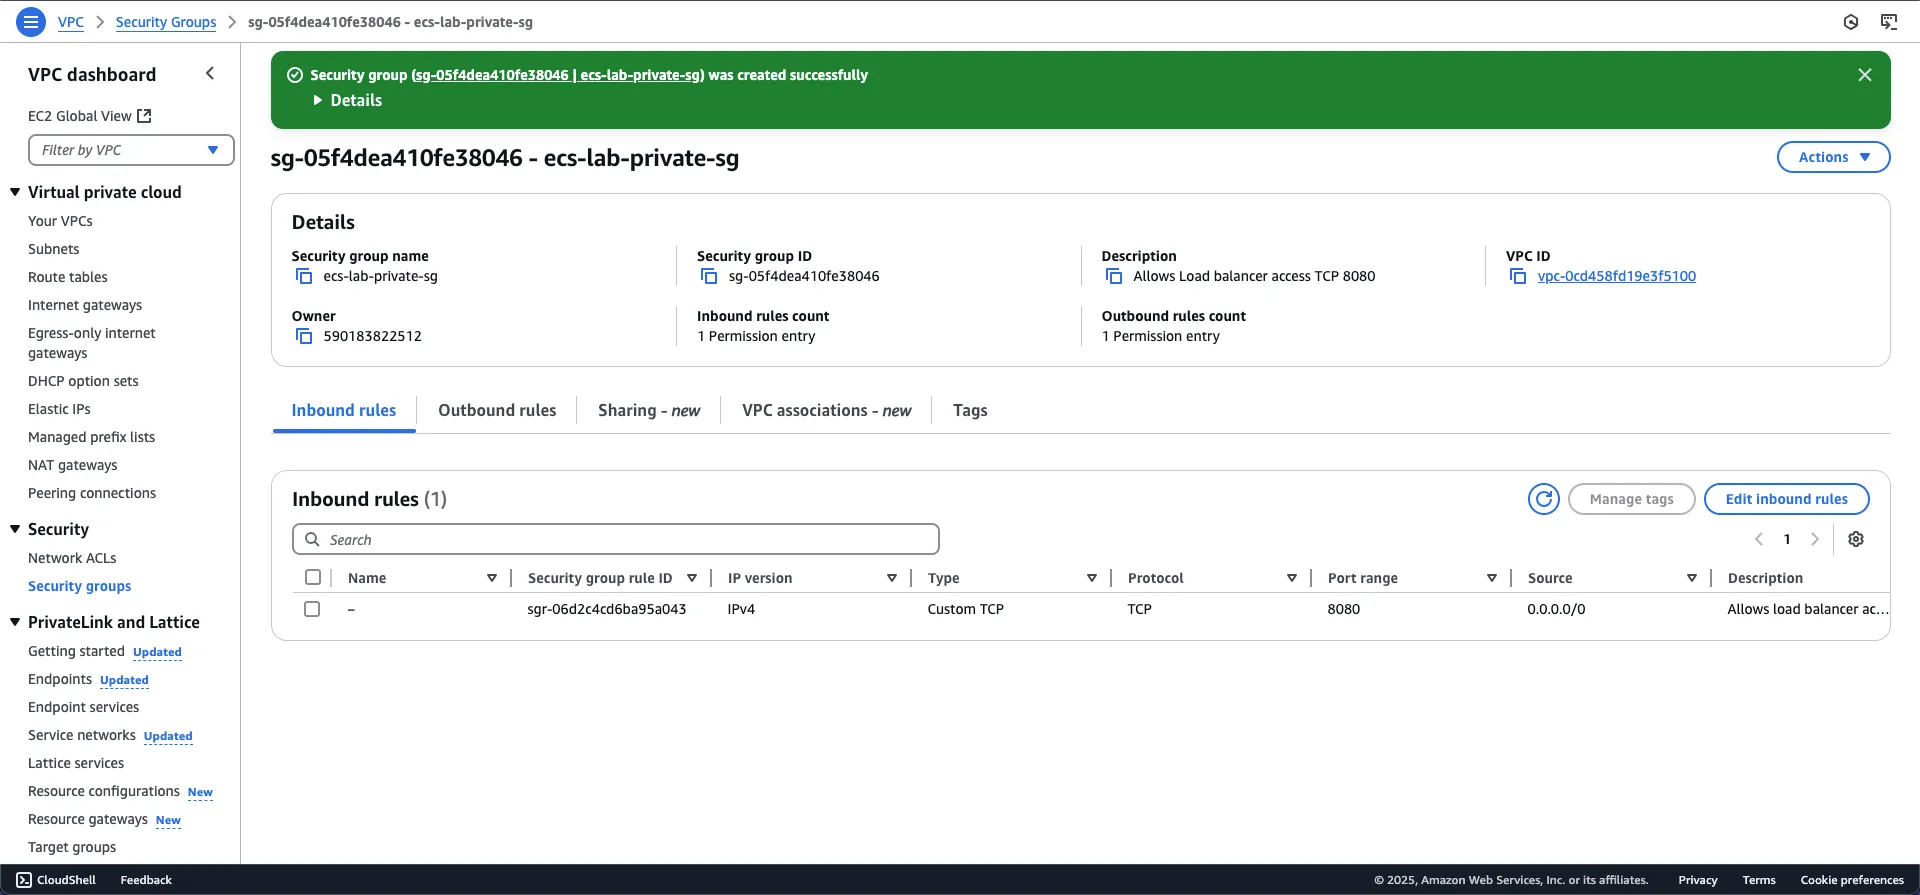
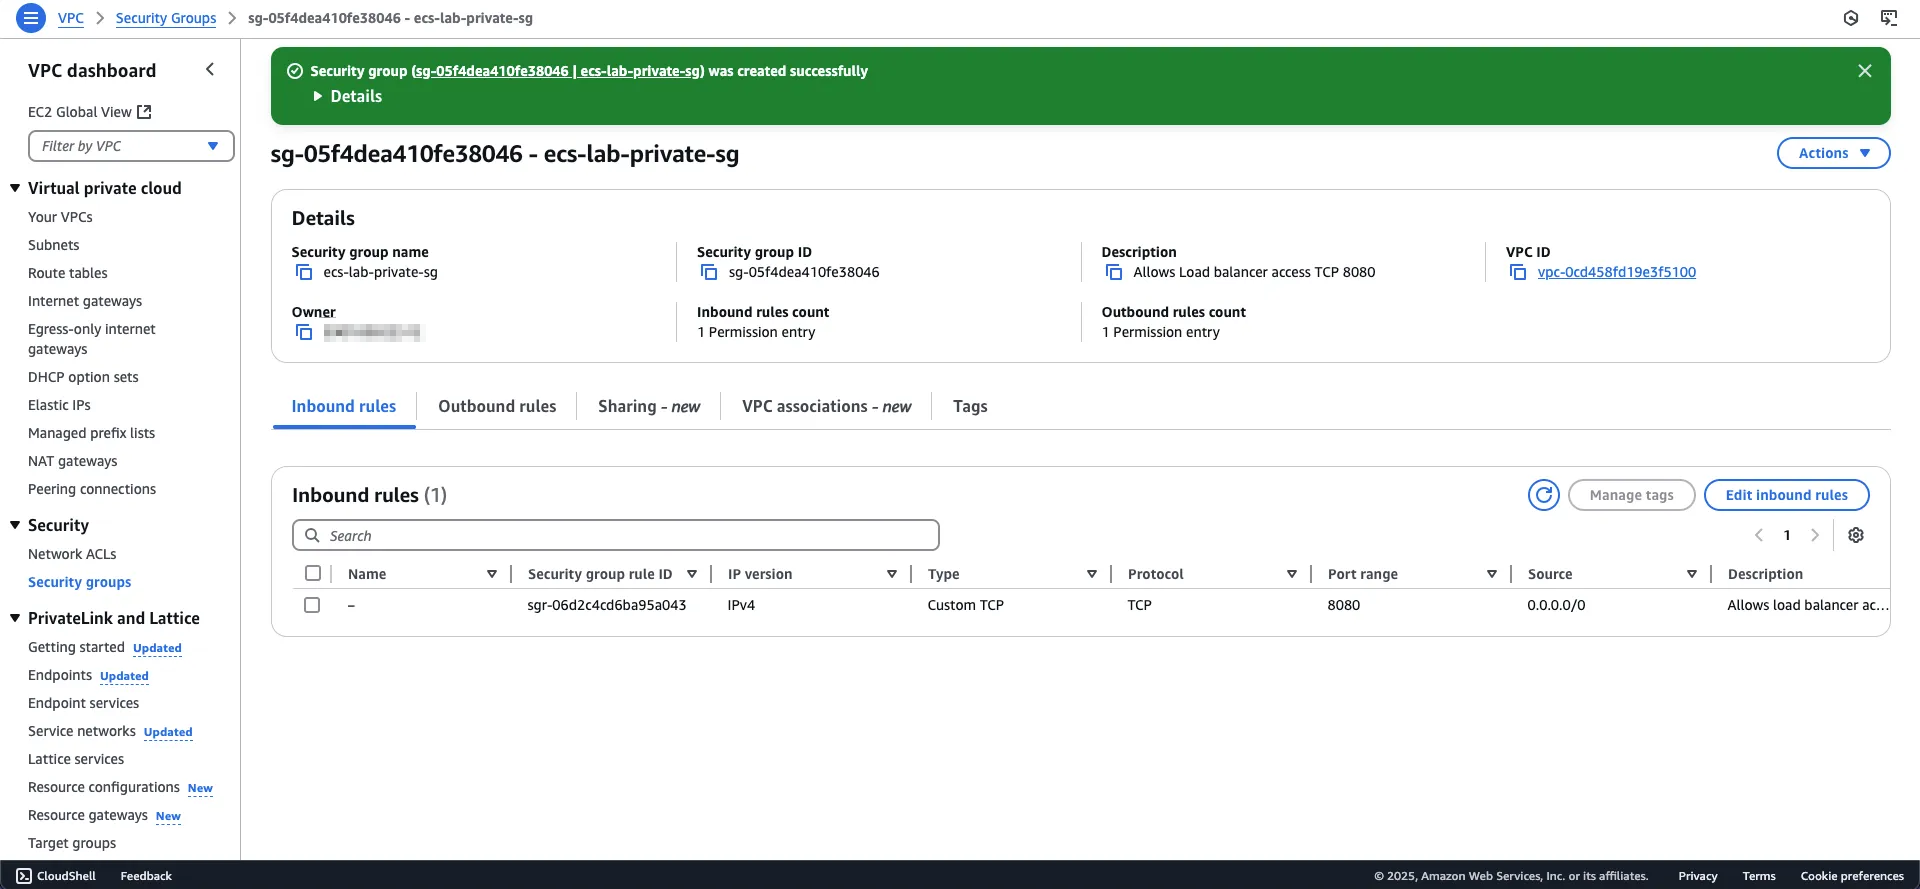
Add section 2,6 & blur sensitive content in images

diff --git a/fundamentals/content/2-prerequisites/6-set-up-lab-environment/_index.md b/fundamentals/content/2-prerequisites/6-set-up-lab-environment/_index.md
@@ -1,0 +1,66 @@
+---
+title: "Set up lab environment"
+date: "`r Sys.Date()`"
+weight: 6
+chapter: false
+pre: "<b> 2.6. </b>"
+---
+
+### Setting Up Your Lab Environment
+
+In this section, you will configure an Amazon EC2 instance and associated network resources required for the lab environment. This setup is essential for the [Storage](https://aws-fcj-ecs-workshop.github.io/Amazon-ECS-Immersion-Day/storage) section, where we'll need to mount an Amazon EFS file system to the EC2 instance for managing asset services.
+
+![Lab Environment Architecture](/images/2-prerequisites/6-set-up-lab-environment/ECS-Lab-Networking-EC2-environment.png)
+
+### Launching an EC2 Instance
+
+1. Navigate to the EC2 Dashboard and select **Launch Instance**
+
+2. Configure the following instance details:
+   - Amazon Machine Image (AMI): Amazon Linux 2023
+   - Instance Type: t2.micro
+   - Key Pair: Create new or select existing
+
+![Instance Configuration](/images/2-prerequisites/6-set-up-lab-environment/image.png)
+
+3. Configure Network Settings:
+   - Select **Edit**
+   - VPC: `ecs-lab-vpc`
+   - Subnet: `ecs-lab-subnet-public1`
+   - Auto-assign Public IP: Enable
+   - Security Group: Select existing `ecs-lab-public-sg` (configured for HTTPS, HTTP, and SSH access)
+
+![Network Configuration](/images/2-prerequisites/6-set-up-lab-environment/image-1.png)
+
+4. Select **Launch Instance**
+
+## Connecting to Your EC2 Instance
+
+1. Select your launched EC2 instance and click **Connect**
+
+![EC2 Connect](/images/2-prerequisites/6-set-up-lab-environment/image-2.png)
+
+2. In the SSH Client tab, copy the SSH connection string:
+```bash
+ssh -i "ecs-workshop-key-pairs.pem" ec2-user@ec2-54-253-11-210.ap-southeast-2.compute.amazonaws.com
+```
+
+![SSH Connection Details](/images/2-prerequisites/6-set-up-lab-environment/image-3.png)
+
+3. Open your terminal, paste the SSH command, and execute
+
+{{% notice info %}}
+**Important**: Ensure you specify the correct path to your private key file on your local system.
+{{% /notice %}}
+
+![SSH Connection Success](/images/2-prerequisites/6-set-up-lab-environment/image-4.png)
+
+### Summary
+
+You have now successfully:
+- Launched an EC2 instance in your lab VPC
+- Configured appropriate network settings
+- Established SSH connectivity
+- Prepared the environment for mounting EFS and managing asset services
+
+This completes the lab environment setup required for subsequent sections of the workshop.

diff --git a/fundamentals/content/2-prerequisites/6-set-up-lab-environment/_index.vi.md b/fundamentals/content/2-prerequisites/6-set-up-lab-environment/_index.vi.md
@@ -1,0 +1,58 @@
+---
+title: "Thiết lập môi trường Lab"
+date: "`r Sys.Date()`"
+weight: 6
+chapter: false
+pre: "<b> 2.6. </b>"
+---
+
+Trong phần này, bạn sẽ thiết lập EC2 cùng với các tài nguyên mạng cần thiết cho bài thực hành. Việc thiết lập này là cần thiết vì trong phần [Storage](https://aws-fcj-ecs-workshop.github.io/Amazon-ECS-Immersion-Day/storage), chúng ta sẽ có các dịch vụ tài nguyên (asset services) và cần phải Mount File System vào EC2 để cập nhật tài nguyên.
+
+![Sơ đồ môi trường mạng ECS-Lab](/images/2-prerequisites/6-set-up-lab-environment/ECS-Lab-Networking-EC2-environment.png)
+
+### Khởi tạo EC2 Instance
+
+1. Truy cập EC2 Dashboard và chọn **Launch Instance**
+
+2. Trong giao diện Launch Instance:
+   - Chọn Amazon Linux 2023 AMI
+   - Loại instance: t2.micro 
+   - Key pairs: Có thể tạo mới hoặc sử dụng key có sẵn
+
+![Giao diện khởi tạo EC2](/images/2-prerequisites/6-set-up-lab-environment/image.png)
+
+3. Trong phần Network Settings:
+   - Chọn **Edit**
+   - VPC: Chọn `ecs-lab-vpc`
+   - Subnet: Chọn `ecs-lab-subnet-public1` 
+   - Bật tự động gán địa chỉ IP
+   - Security group: Chọn security group có sẵn `ecs-lab-public-sg` (cho phép HTTPS, HTTP và SSH)
+
+![Cấu hình mạng EC2](/images/2-prerequisites/6-set-up-lab-environment/image-1.png)
+
+4. Chọn **Launch instance**
+
+### Kết nối SSH vào EC2
+
+1. Sau khi tạo thành công, chọn EC2 instance và nhấn **Connect**
+
+![Kết nối EC2](/images/2-prerequisites/6-set-up-lab-environment/image-2.png)
+
+2. Chuyển sang tab SSH Client và sao chép lệnh SSH:
+```bash
+ssh -i "ecs-workshop-key-pairs.pem" ec2-user@ec2-54-253-11-210.ap-southeast-2.compute.amazonaws.com
+```
+
+![Lệnh SSH](/images/2-prerequisites/6-set-up-lab-environment/image-3.png)
+
+3. Mở terminal, dán lệnh SSH và thực thi
+
+{{% notice info %}}
+⚠ **Lưu ý**: Hãy điều chỉnh đường dẫn private key theo vị trí lưu trữ thực tế của bạn!
+{{% /notice %}}
+
+![Kết quả SSH](/images/2-prerequisites/6-set-up-lab-environment/image-4.png)
+
+### Kết luận
+
+Chúng ta đã tạo thành công một EC2 instance có khả năng gắn kết EFS để cập nhật hình ảnh sản phẩm trong các dịch vụ tài nguyên.

diff --git a/fundamentals/content/_index.vi.md b/fundamentals/content/_index.vi.md
@@ -11,11 +11,13 @@ Chào mừng bạn đến với chuỗi workshop về Amazon Elastic Container S
 Chuỗi workshop này bao gồm **7 bài thực hành** giúp bạn tìm hiểu toàn diện về Amazon Elastic Container Services.
 
 1. [Fundamentals](#) - Xây dựng kiến thức nền tảng về Network, triển khai ứng dụng mẫu và khởi tạo ECS Services
-1. [Auto Scaling](https://aws-fcj-ecs-workshop.github.io/Amazon-ECS-Immersion-Day/auto-scaling) - Tự động điều chỉnh quy mô ứng dụng
-2. [Networking](https://aws-fcj-ecs-workshop.github.io/Amazon-ECS-Immersion-Day/networking) - Thiết kế và triển khai mô hình mạng
-3. [Observability](https://aws-fcj-ecs-workshop.github.io/Amazon-ECS-Immersion-Day/observability) - Giám sát và quan sát hệ thống
-4. [Security](https://aws-fcj-ecs-workshop.github.io/Amazon-ECS-Immersion-Day/security) - Bảo mật và kiểm soát truy cập
-5. [Automation](https://aws-fcj-ecs-workshop.github.io/Amazon-ECS-Immersion-Day/automation) - Tự động hóa quy trình triển khai
+2. [Auto Scaling](https://aws-fcj-ecs-workshop.github.io/Amazon-ECS-Immersion-Day/auto-scaling) - Tự động điều chỉnh quy mô ứng dụng
+3. [Networking](https://aws-fcj-ecs-workshop.github.io/Amazon-ECS-Immersion-Day/networking) - Thiết kế và triển khai mô hình mạng
+4. [Observability](https://aws-fcj-ecs-workshop.github.io/Amazon-ECS-Immersion-Day/observability) - Giám sát và quan sát hệ thống
+5. [Security](https://aws-fcj-ecs-workshop.github.io/Amazon-ECS-Immersion-Day/security) - Bảo mật và kiểm soát truy cập
+6. [Automation](https://aws-fcj-ecs-workshop.github.io/Amazon-ECS-Immersion-Day/automation) - Tự động hóa quy trình triển khai
+7. [Storage](https://aws-fcj-ecs-workshop.github.io/Amazon-ECS-Immersion-Day/storage) - Lưu trữ assets sử dụng EFS File System
+
 
 ![alt text](/images/image.png)
 

diff --git a/fundamentals/content/2-prerequisites/1-iam-roles/_index.vi.md b/fundamentals/content/2-prerequisites/1-iam-roles/_index.vi.md
@@ -17,24 +17,9 @@ Một đặc tính quan trọng của IAM Role là không có thông tin chứng
 
 ![IAM ROLE](/images/2-prerequisites/1-iam-roles/ECS-Lab-IAM-Role.png)
 
-<!-- TODO: tách phần này thành 2.1. chuẩn bị môi trường development -->
+
 ---
-#### 1. Tạo IAM Role cho EC2 Instance
-
-IAM Role cho phép EC2 instance truy cập an toàn đến các dịch vụ AWS như S3, CloudWatch Logs và Systems Manager mà không cần credentials cố định.
-
-**Các bước thực hiện:**
-
-1. Truy cập [IAM Dashboard](https://console.aws.amazon.com/iam/home)
-2. Chọn **Roles** > **Create Role**
-3. Tại giao diện **Create Role**:
-   - **Trusted entity type**: Chọn `AWS Service`
-   - **Use case**: Chọn `EC2`
-   - Nhấn **Next**
-   - Chọn policy phù hợp (ví dụ: `AmazonSSMManagedInstanceCore`)
-   - Hoàn tất tạo role
-
-#### 2. Tạo IAM Role cho ECS Task Execution
+#### 1. Tạo IAM Role cho ECS Task Execution
 
 Role này cho phép ECS thực hiện các tác vụ hệ thống như pull container images và ghi logs.
 
@@ -68,7 +53,7 @@ Kết quả sau khi tạo thành công:
 
 ![Role đã tạo](/images/2-prerequisites/1-iam-roles/image-4.png)
 
-#### 3. Tạo IAM Role cho ECS Task (Application Role)
+#### 2. Tạo IAM Role cho ECS Task (Application Role)
 
 Role này cho phép ứng dụng trong container truy cập các dịch vụ AWS và thực thi lệnh.
 

diff --git a/fundamentals/content/2-prerequisites/1-iam-roles/_index.md b/fundamentals/content/2-prerequisites/1-iam-roles/_index.md
@@ -15,24 +15,7 @@ For an IAM User to assume an IAM Role, the role itself needs to allow the user t
 An important characteristic of IAM Roles is that they don't have credentials, so you cannot directly log into AWS accounts using IAM Roles.
 
 ![IAM ROLE](/images/2-prerequisites/1-iam-roles/ECS-Lab-IAM-Role.png)
-
-<!-- TODO: split this section into 2.1. preparing development environment -->
 ---
-#### 1. Create IAM Role for EC2 Instance
-
-IAM Role allows EC2 instances to securely access AWS services like S3, CloudWatch Logs, and Systems Manager without fixed credentials.
-
-**Steps:**
-
-1. Access [IAM Dashboard](https://console.aws.amazon.com/iam/home)
-2. Select **Roles** > **Create Role**
-3. In the **Create Role** interface:
-   - **Trusted entity type**: Select `AWS Service`
-   - **Use case**: Select `EC2`
-   - Click **Next**
-   - Select appropriate policy (e.g., `AmazonSSMManagedInstanceCore`)
-   - Complete role creation
-
 #### 2. Create IAM Role for ECS Task Execution
 
 This role allows ECS to perform system tasks like pulling container images and writing logs.
@@ -67,7 +50,7 @@ Result after successful creation:
 
 ![Created Role](/images/2-prerequisites/1-iam-roles/image-4.png)
 
-#### 3. Create IAM Role for ECS Task (Application Role)
+#### 2. Create IAM Role for ECS Task (Application Role)
 
 This role allows applications in containers to access AWS services and execute commands.
 

diff --git a/fundamentals/content/1-getting-started/_index.vi.md b/fundamentals/content/1-getting-started/_index.vi.md
@@ -33,7 +33,7 @@ Mã nguồn đầy đủ có sẵn trên [GitHub](https://github.com/aws-contain
 
 #### Đóng gói các khối lượng công việc container
 
-Trước khi triển khai khối lượng công việc lên Amazon ECS, chúng cần được đóng gói thành container /images/1-getting-started/image và đẩy lên container registry. Mặc dù workshop này không đề cập đến các khái niệm cơ bản về container, nhưng các container /images/1-getting-started/image được xây dựng sẵn cho ứng dụng mẫu đã có sẵn trong Amazon Elastic Container Registry (ECR) để sử dụng trong các bài thực hành.
+Trước khi triển khai khối lượng công việc lên Amazon ECS, chúng cần được đóng gói thành container image và đẩy lên container registry. Mặc dù workshop này không đề cập đến các khái niệm cơ bản về container, nhưng các container image được xây dựng sẵn cho ứng dụng mẫu đã có sẵn trong Amazon Elastic Container Registry (ECR) để sử dụng trong các bài thực hành.
 
 Dưới đây là bảng liệt kê các đường dẫn tới ECR repository và Dockerfile tương ứng:
 

diff --git a/fundamentals/content/5-conclusions/_index.vi.md b/fundamentals/content/5-conclusions/_index.vi.md
@@ -23,6 +23,7 @@ Trong phần Fundamentals đầu tiên của chuỗi workshop Amazon ECS, chúng
 3. [Observability](https://aws-fcj-ecs-workshop.github.io/Amazon-ECS-Immersion-Day/observability) - Giám sát và quan sát hệ thống
 4. [Security](https://aws-fcj-ecs-workshop.github.io/Amazon-ECS-Immersion-Day/security) - Bảo mật và kiểm soát truy cập
 5. [Automation](https://aws-fcj-ecs-workshop.github.io/Amazon-ECS-Immersion-Day/automation) - Tự động hóa quy trình triển khai
+6. [Storage](https://aws-fcj-ecs-workshop.github.io/Amazon-ECS-Immersion-Day/storage) - Lưu trữ assets sử dụng EFS File System
 
 Mỗi phần workshop sẽ giúp bạn xây dựng kiến thức chuyên sâu về một khía cạnh cụ thể của Amazon ECS, từ đó có thể vận dụng hiệu quả vào các dự án thực tế.
 
@@ -35,4 +36,5 @@ Trần Đoàn Công Lý - https://www.linkedin.com/in/trandoancongly/
 ### References
 
 Getting Started - https://catalog.workshops.aws/ecs-immersion-day/en-US/20-introduction
+
 Fundamentals - https://catalog.workshops.aws/ecs-immersion-day/en-US/30-basic

diff --git a/fundamentals/content/5-conclusions/_index.md b/fundamentals/content/5-conclusions/_index.md
@@ -24,6 +24,7 @@ To continue your journey exploring Amazon ECS, we invite you to discover the fol
 3. [Observability](https://aws-fcj-ecs-workshop.github.io/Amazon-ECS-Immersion-Day/observability/) - System monitoring and observation
 4. [Security](https://aws-fcj-ecs-workshop.github.io/Amazon-ECS-Immersion-Day/security/) - Security and access control
 5. [Automation](https://aws-fcj-ecs-workshop.github.io/Amazon-ECS-Immersion-Day/automation/) - Automate deployment processes
+6. [Storage](https://aws-fcj-ecs-workshop.github.io/Amazon-ECS-Immersion-Day/storage) - Using EFS File System for storing assets
 
 Each workshop section will help you build in-depth knowledge about a specific aspect of Amazon ECS, enabling you to effectively apply it to real projects.
 
@@ -36,4 +37,5 @@ Tran Doan Cong Ly - https://www.linkedin.com/in/trandoancongly/
 ### References
 
 Getting Started - https://catalog.workshops.aws/ecs-immersion-day/en-US/20-introduction
+
 Fundamentals - https://catalog.workshops.aws/ecs-immersion-day/en-US/30-basic

diff --git a/fundamentals/content/_index.md b/fundamentals/content/_index.md
@@ -16,6 +16,8 @@ This workshop series includes **7 practical exercises** to help you comprehensiv
 4. [Observability](https://aws-fcj-ecs-workshop.github.io/Amazon-ECS-Immersion-Day/observability/) - Build comprehensive monitoring and observation systems
 5. [Security](https://aws-fcj-ecs-workshop.github.io/Amazon-ECS-Immersion-Day/security/) - Deploy security solutions and access control
 6. [Automation](https://aws-fcj-ecs-workshop.github.io/Amazon-ECS-Immersion-Day/automation/) - Automate application deployment processes
+7. [Storage](https://aws-fcj-ecs-workshop.github.io/Amazon-ECS-Immersion-Day/storage) - Using EFS File System for storing assets
+
 
 ![alt text](/images/image.png)
 

diff --git a/fundamentals/content/2-prerequisites/_index.vi.md b/fundamentals/content/2-prerequisites/_index.vi.md
@@ -18,7 +18,6 @@ Trước khi triển khai ứng dụng trên Amazon ECS và AWS Fargate, chúng 
 
 Trong workshop này, bạn sẽ tạo:
 
-- **EC2 Instance Role**: Cấp quyền cho EC2 truy cập dịch vụ như CloudWatch hoặc S3.
 - **ECS Task Execution Role**: Cho phép ECS tải container image từ Amazon ECR và ghi log lên CloudWatch.
 - **ECS Service Role**: Cần thiết khi ECS tích hợp với các dịch vụ như Application Load Balancer để tự động đăng ký/dỡ đăng ký các task.
 

diff --git a/fundamentals/content/2-prerequisites/_index.md b/fundamentals/content/2-prerequisites/_index.md
@@ -18,7 +18,6 @@ Before deploying applications on Amazon ECS and AWS Fargate, we need to build a 
 
 In this workshop, you will create:
 
-- **EC2 Instance Role**: Grants EC2 access to services like CloudWatch or S3.
 - **ECS Task Execution Role**: Allows ECS to pull container images from Amazon ECR and write logs to CloudWatch.
 - **ECS Service Role**: Required when ECS integrates with services like Application Load Balancer for automatic task registration/deregistration.
 

diff --git a/fundamentals/content/3-fundamentals/_index.vi.md b/fundamentals/content/3-fundamentals/_index.vi.md
@@ -36,8 +36,8 @@ Amazon ECS (Elastic Container Service) bao gồm 4 thành phần cốt lõi sau:
 #### Task Definition
 - Blueprint cho việc chạy containers trong ECS
 - Xác định:
-  - Container images
-  /images/3-fundamentals/- Yêu cầu về CPU và Memory
+  - Container images 
+  - Yêu cầu về CPU và Memory
   - Ports và volumes mapping
   - Cấu hình networking
   - IAM roles
